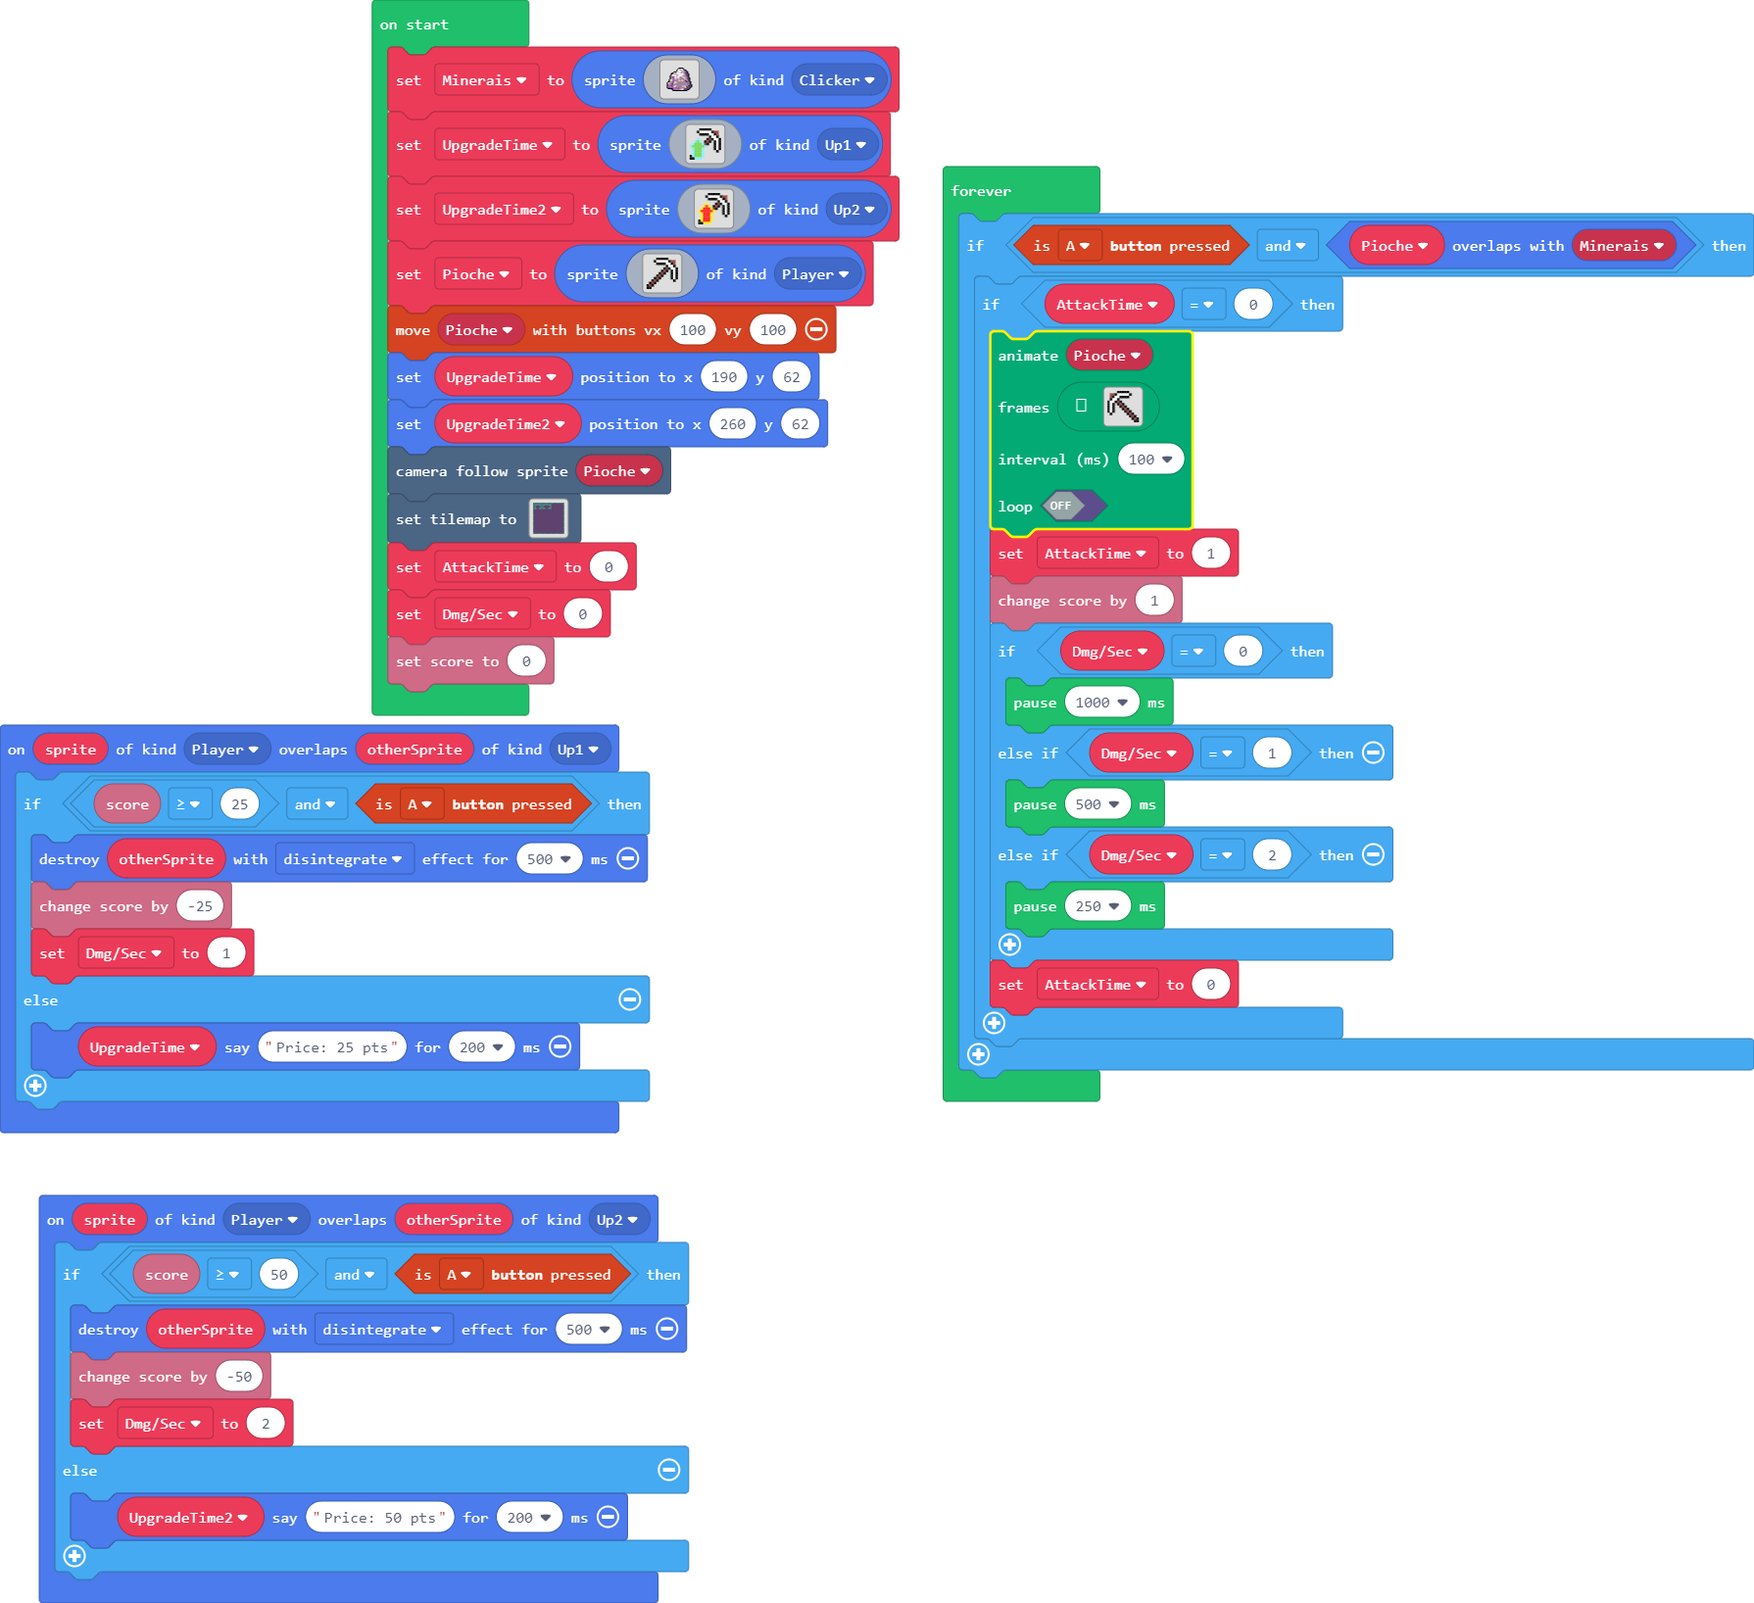
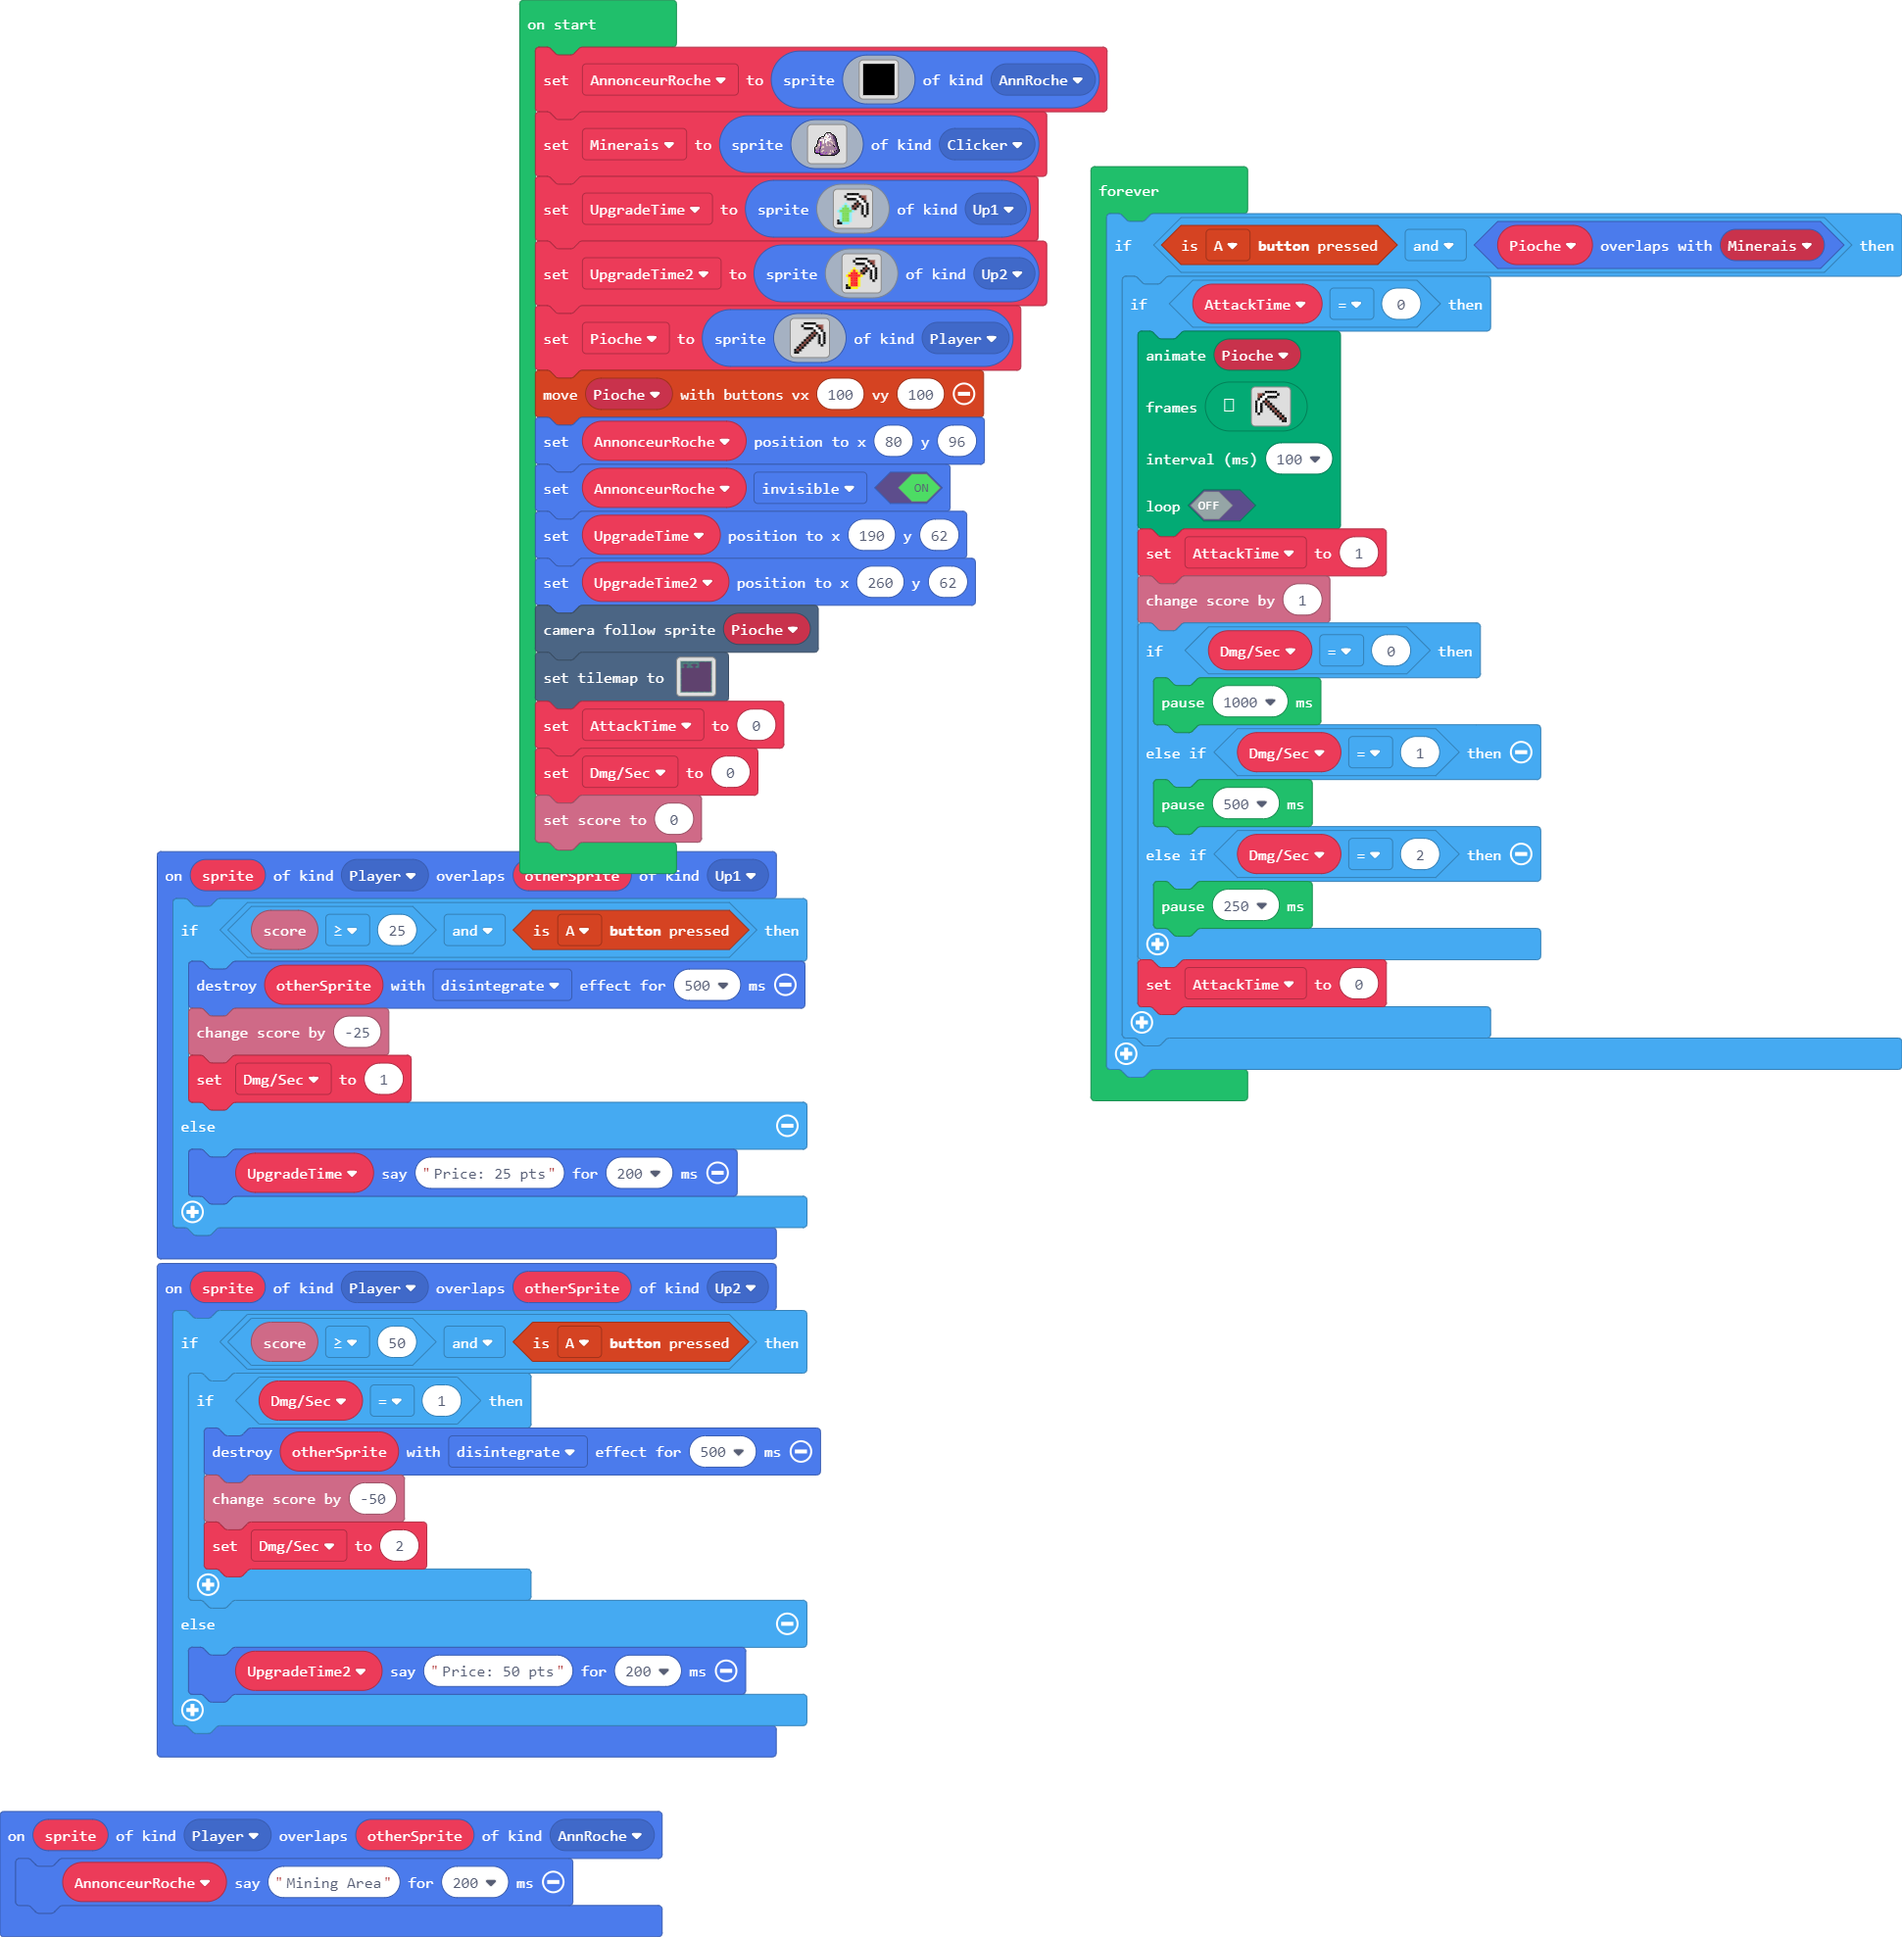
Update main.blocks, main.ts

diff --git a/main.ts b/main.ts
@@ -2,6 +2,7 @@ namespace SpriteKind {
     export const Clicker = SpriteKind.create()
     export const Up1 = SpriteKind.create()
     export const Up2 = SpriteKind.create()
+    export const AnnRoche = SpriteKind.create()
 }
 namespace myTiles {
     //% blockIdentity=images._tile
@@ -26,12 +27,17 @@ namespace myTiles {
 }
 sprites.onOverlap(SpriteKind.Player, SpriteKind.Up2, function (sprite, otherSprite) {
     if (info.score() >= 50 && controller.A.isPressed()) {
-        otherSprite.destroy(effects.disintegrate, 500)
-        info.changeScoreBy(-50)
-        DmgSec = 2
+        if (DmgSec == 1) {
+            otherSprite.destroy(effects.disintegrate, 500)
+            info.changeScoreBy(-50)
+            DmgSec = 2
+        }
     } else {
         UpgradeTime2.say("Price: 50 pts", 200)
     }
+})
+sprites.onOverlap(SpriteKind.Player, SpriteKind.AnnRoche, function (sprite, otherSprite) {
+    AnnonceurRoche.say("Mining Area", 200)
 })
 sprites.onOverlap(SpriteKind.Player, SpriteKind.Up1, function (sprite, otherSprite) {
     if (info.score() >= 25 && controller.A.isPressed()) {
@@ -45,6 +51,41 @@ sprites.onOverlap(SpriteKind.Player, SpriteKind.Up1, function (sprite, otherSpri
 let DmgSec = 0
 let UpgradeTime2: Sprite = null
 let UpgradeTime: Sprite = null
+let AnnonceurRoche: Sprite = null
+AnnonceurRoche = sprites.create(img`
+f f f f f f f f f f f f f f f f f f f f f f f f f f f f f f f f 
+f f f f f f f f f f f f f f f f f f f f f f f f f f f f f f f f 
+f f f f f f f f f f f f f f f f f f f f f f f f f f f f f f f f 
+f f f f f f f f f f f f f f f f f f f f f f f f f f f f f f f f 
+f f f f f f f f f f f f f f f f f f f f f f f f f f f f f f f f 
+f f f f f f f f f f f f f f f f f f f f f f f f f f f f f f f f 
+f f f f f f f f f f f f f f f f f f f f f f f f f f f f f f f f 
+f f f f f f f f f f f f f f f f f f f f f f f f f f f f f f f f 
+f f f f f f f f f f f f f f f f f f f f f f f f f f f f f f f f 
+f f f f f f f f f f f f f f f f f f f f f f f f f f f f f f f f 
+f f f f f f f f f f f f f f f f f f f f f f f f f f f f f f f f 
+f f f f f f f f f f f f f f f f f f f f f f f f f f f f f f f f 
+f f f f f f f f f f f f f f f f f f f f f f f f f f f f f f f f 
+f f f f f f f f f f f f f f f f f f f f f f f f f f f f f f f f 
+f f f f f f f f f f f f f f f f f f f f f f f f f f f f f f f f 
+f f f f f f f f f f f f f f f f f f f f f f f f f f f f f f f f 
+f f f f f f f f f f f f f f f f f f f f f f f f f f f f f f f f 
+f f f f f f f f f f f f f f f f f f f f f f f f f f f f f f f f 
+f f f f f f f f f f f f f f f f f f f f f f f f f f f f f f f f 
+f f f f f f f f f f f f f f f f f f f f f f f f f f f f f f f f 
+f f f f f f f f f f f f f f f f f f f f f f f f f f f f f f f f 
+f f f f f f f f f f f f f f f f f f f f f f f f f f f f f f f f 
+f f f f f f f f f f f f f f f f f f f f f f f f f f f f f f f f 
+f f f f f f f f f f f f f f f f f f f f f f f f f f f f f f f f 
+f f f f f f f f f f f f f f f f f f f f f f f f f f f f f f f f 
+f f f f f f f f f f f f f f f f f f f f f f f f f f f f f f f f 
+f f f f f f f f f f f f f f f f f f f f f f f f f f f f f f f f 
+f f f f f f f f f f f f f f f f f f f f f f f f f f f f f f f f 
+f f f f f f f f f f f f f f f f f f f f f f f f f f f f f f f f 
+f f f f f f f f f f f f f f f f f f f f f f f f f f f f f f f f 
+f f f f f f f f f f f f f f f f f f f f f f f f f f f f f f f f 
+f f f f f f f f f f f f f f f f f f f f f f f f f f f f f f f f 
+`, SpriteKind.AnnRoche)
 let Minerais = sprites.create(img`
 . . . . . . . . . . . . . . . . . . . . . . . . . . . . . . . . 
 . . . . . . . . . . . . . . . . . . . . . . . . . . . . . . . . 
@@ -125,6 +166,8 @@ f e f . . . . . . . . . .
 f f . . . . . . . . . . . 
 `, SpriteKind.Player)
 controller.moveSprite(Pioche, 100, 100)
+AnnonceurRoche.setPosition(80, 96)
+AnnonceurRoche.setFlag(SpriteFlag.Invisible, true)
 UpgradeTime.setPosition(190, 62)
 UpgradeTime2.setPosition(260, 62)
 scene.cameraFollowSprite(Pioche)
